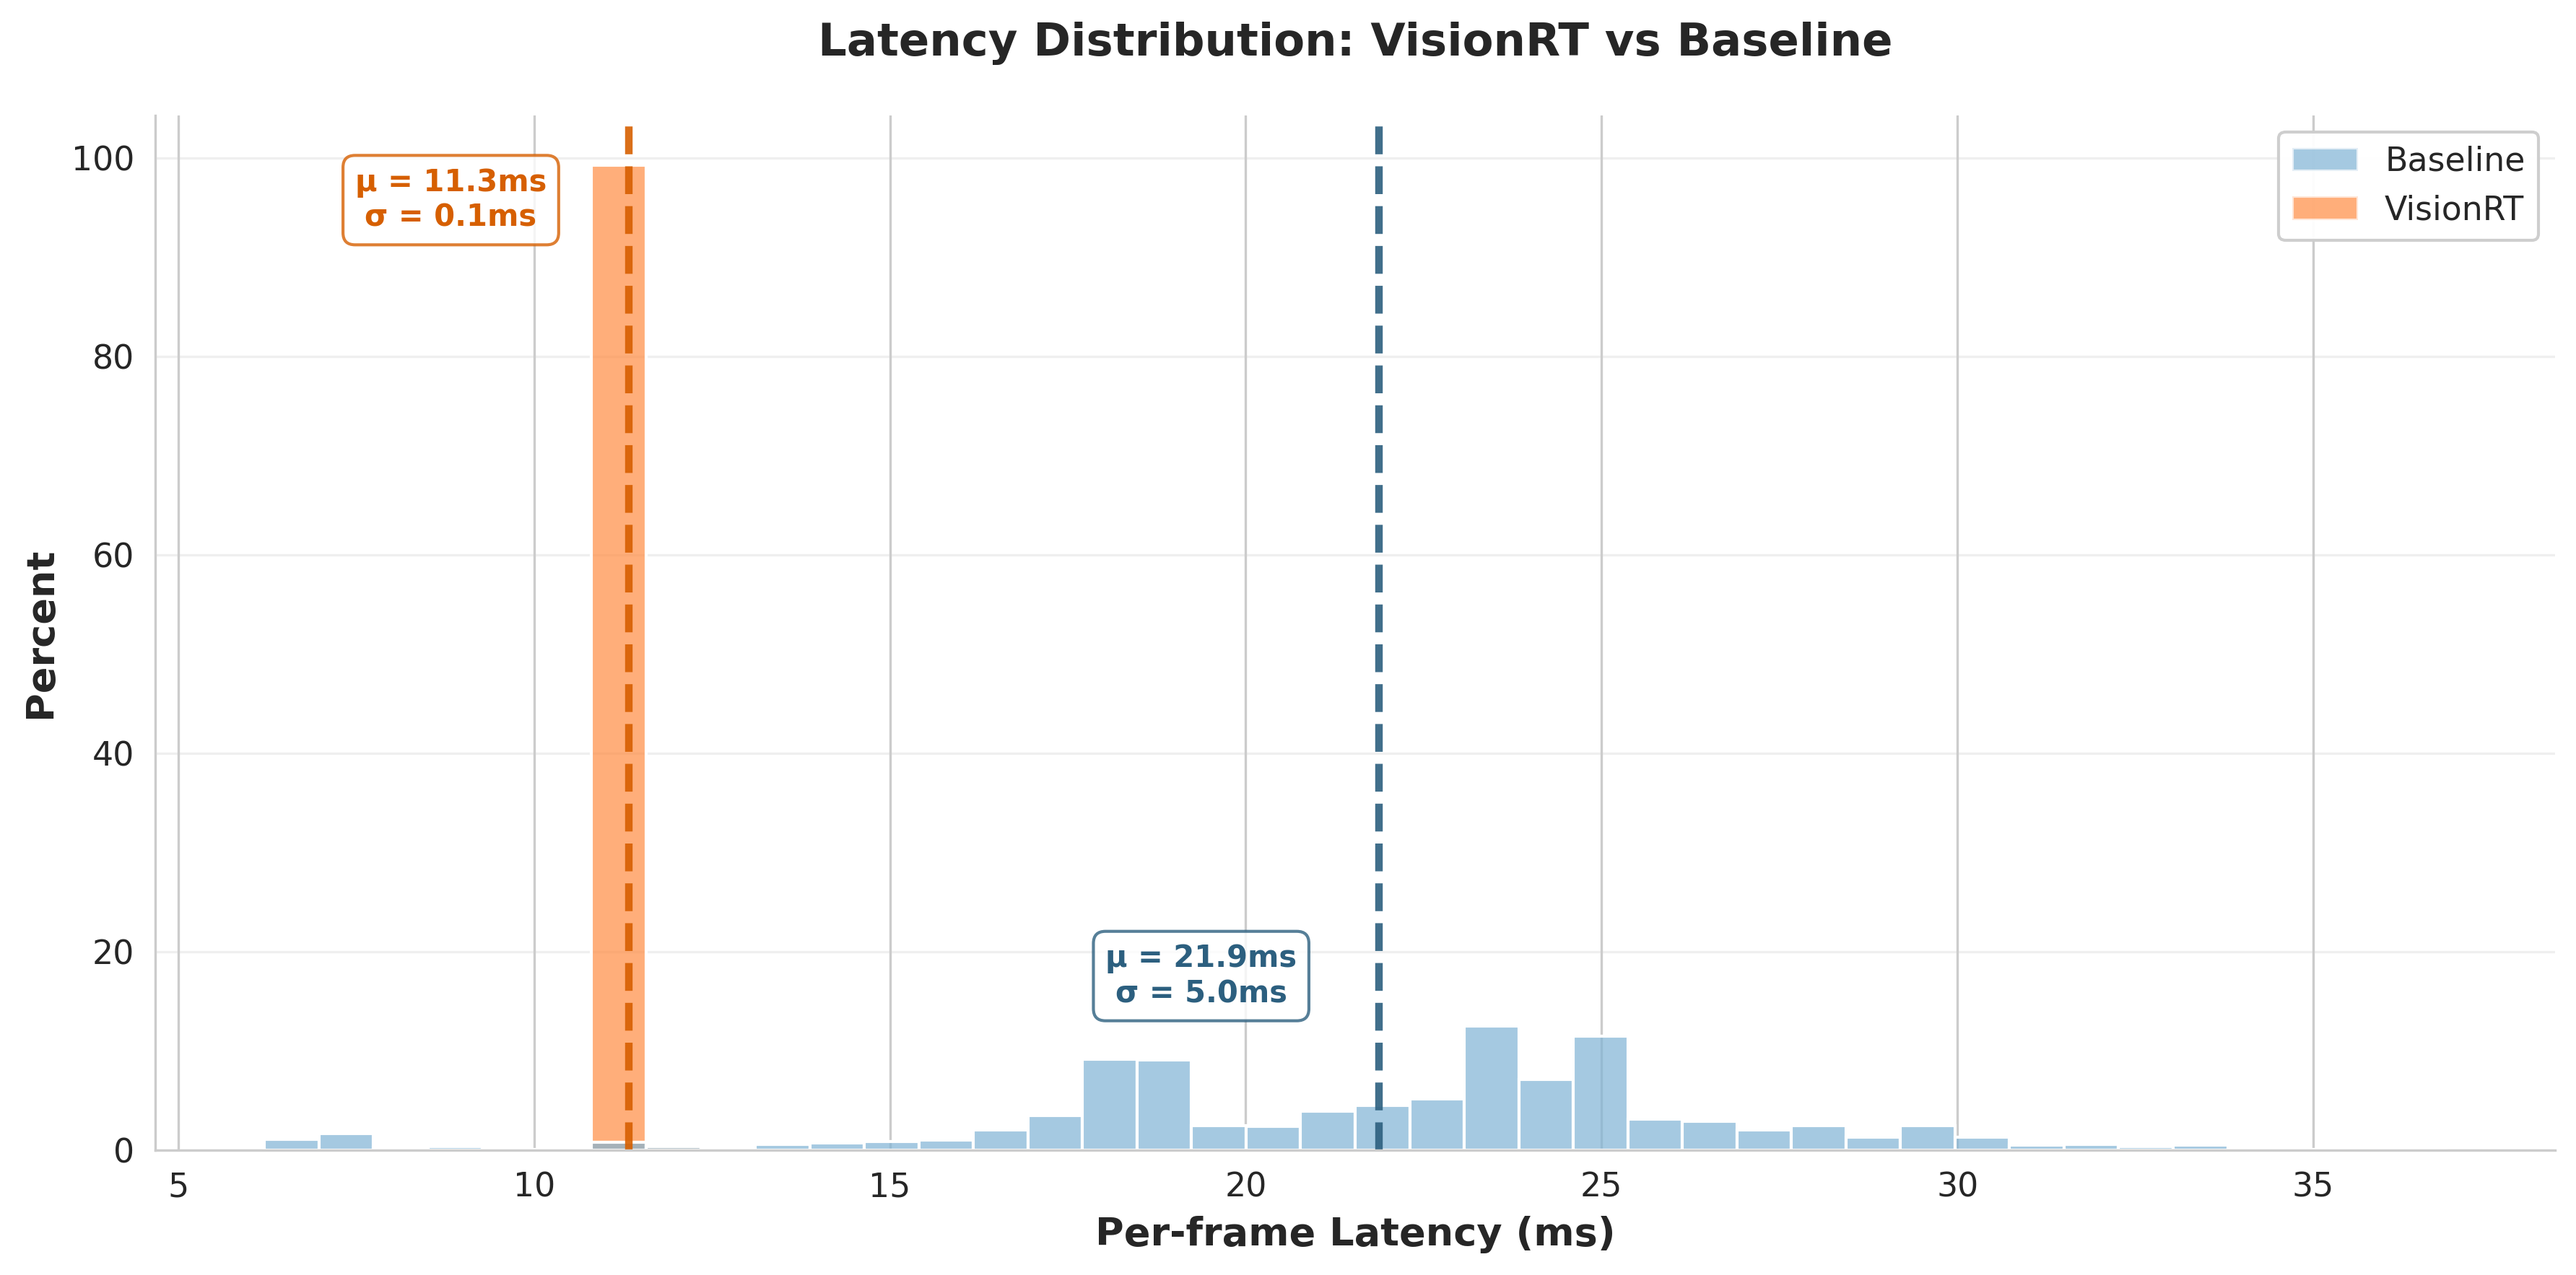
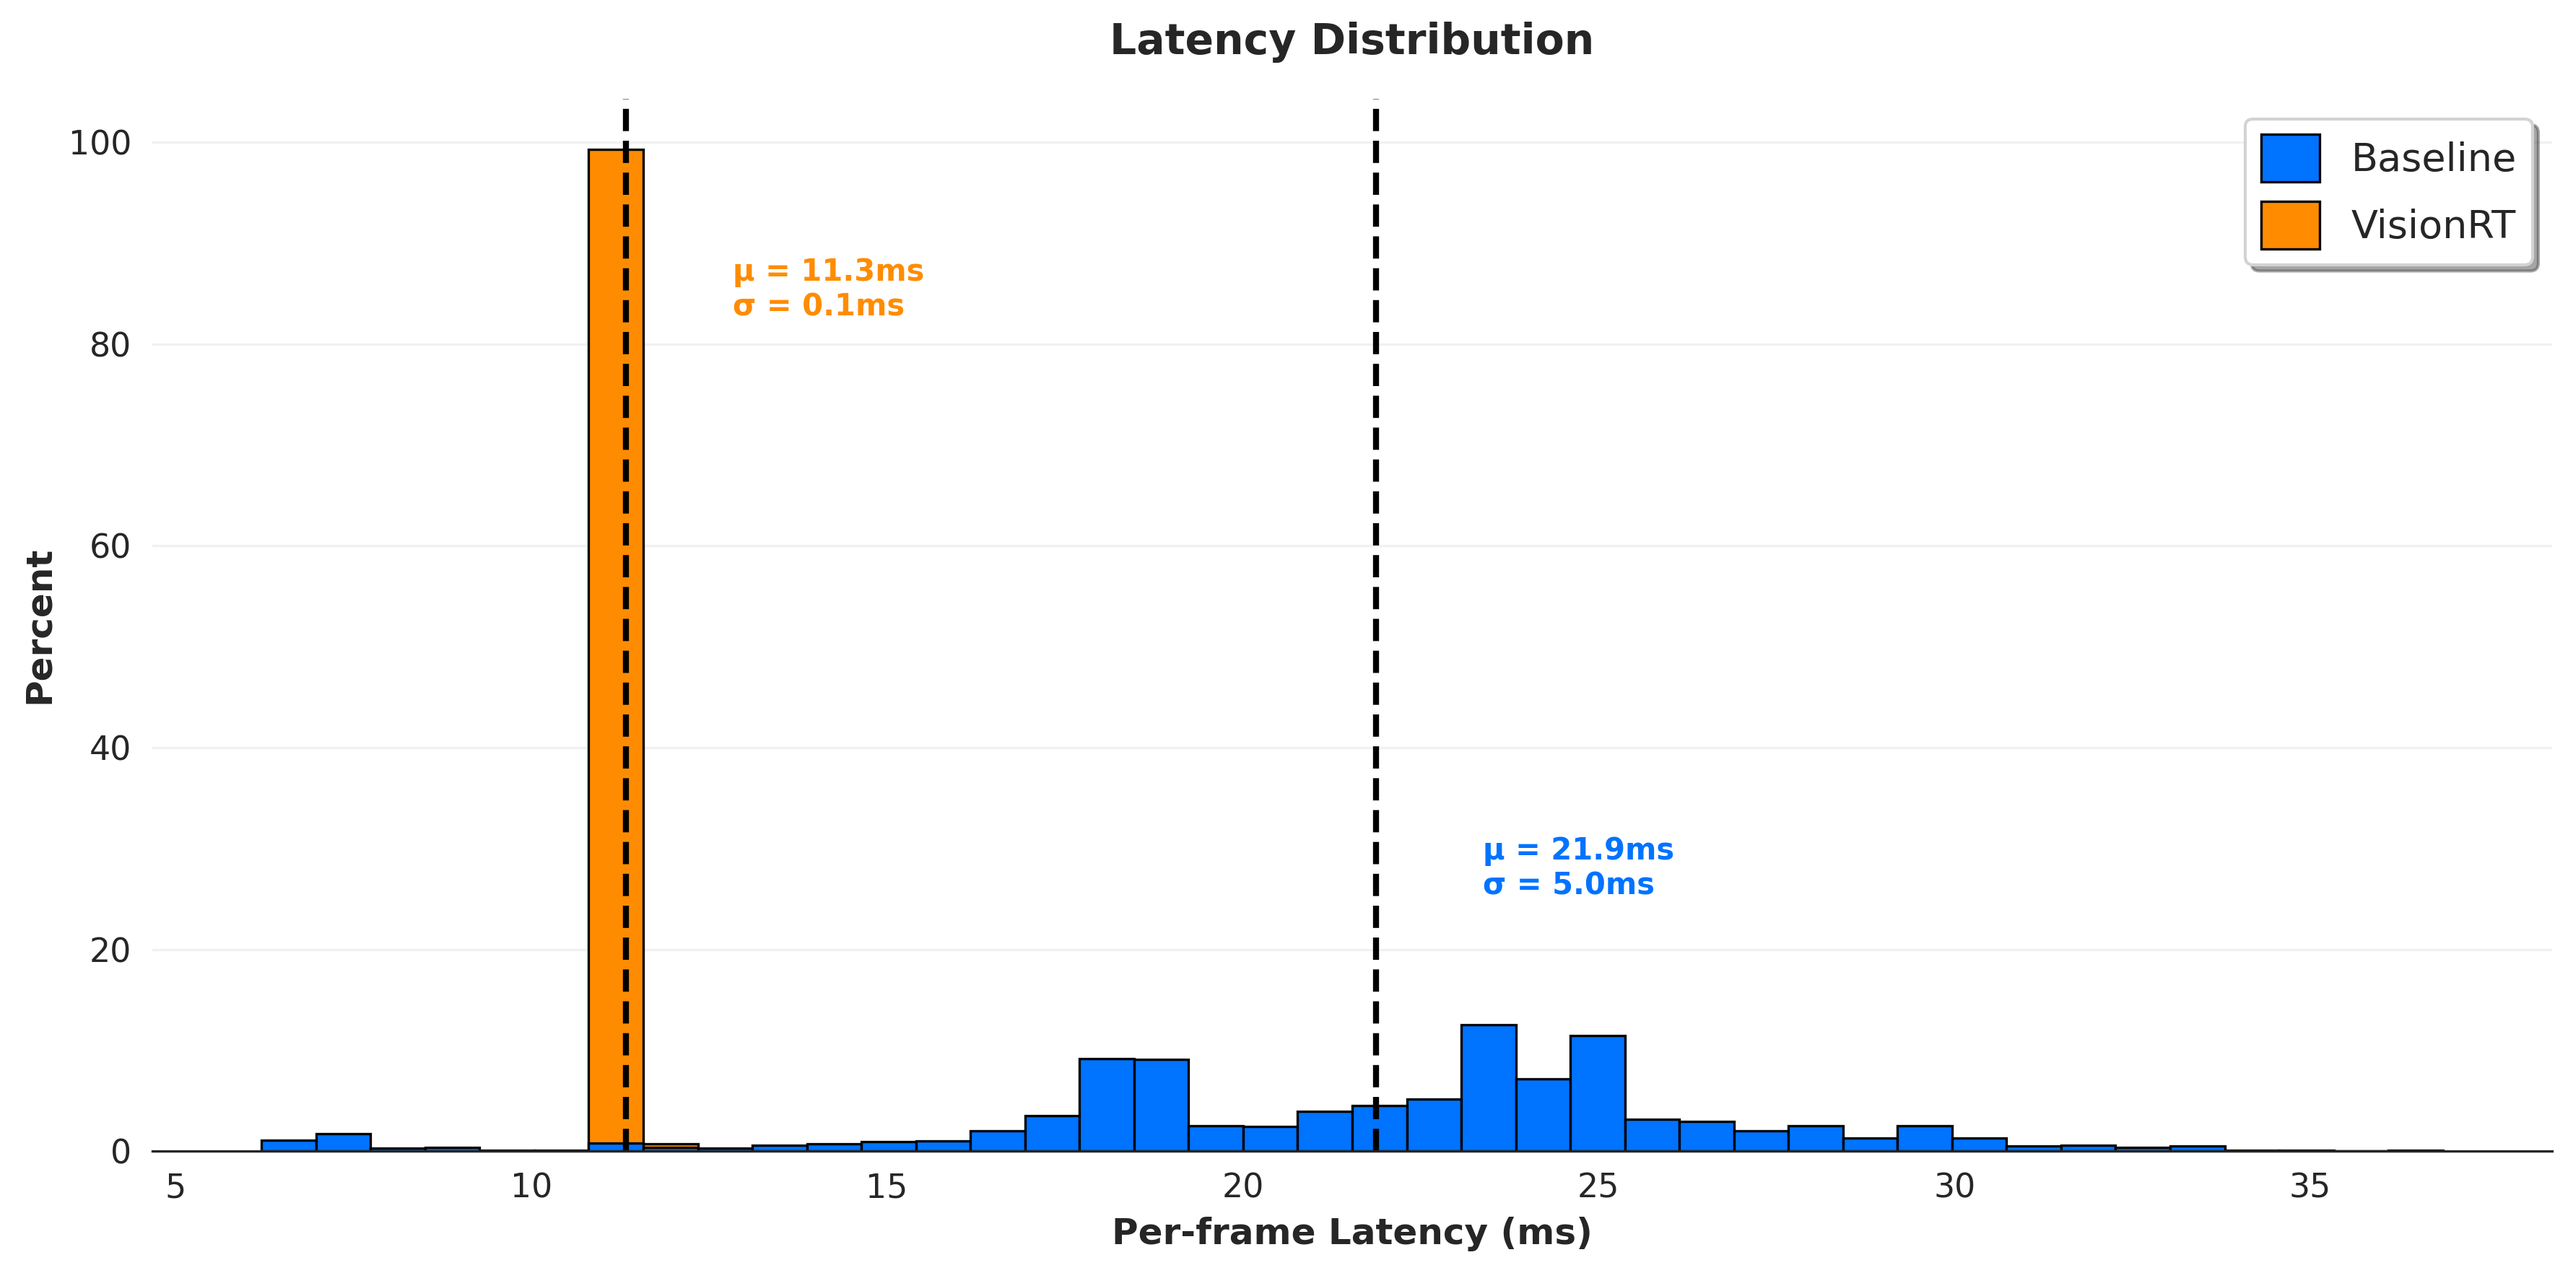
update image to be more bold

diff --git a/examples/visualize.py b/examples/visualize.py
@@ -10,6 +10,11 @@ import numpy as np
 import seaborn as sns
 import pandas as pd
 
+sns.set_style("white")
+
+BASELINE_COLOR = "#0073ff"
+VISIONRT_COLOR = "#FF8C00"
+
 
 def _clip_outliers(data_ms: np.ndarray, sigma: float = 3.0) -> np.ndarray:
     if data_ms.size == 0:
@@ -123,7 +128,6 @@ def main(iters: int = 100) -> None:
     labels = (["Baseline"] * len(baseline_ms)) + (["VisionRT"] * len(visionrt_ms))
     latencies = np.concatenate([baseline_ms, visionrt_ms])
 
-    sns.set_style("whitegrid")
     fig, ax = plt.subplots(figsize=(12, 6))
 
     df = pd.DataFrame({"Latency": latencies, "System": labels})
@@ -134,10 +138,12 @@ def main(iters: int = 100) -> None:
         hue="System",
         kde=False,
         bins=40,
-        alpha=0.7,
+        alpha=1.0,
         common_norm=False,
-        palette={"Baseline": "#7fb3d5", "VisionRT": "#ff8c42"},
+        palette={"Baseline": BASELINE_COLOR, "VisionRT": VISIONRT_COLOR},
         stat="percent",
+        edgecolor="black",
+        linewidth=0.8,
         ax=ax,
     )
 
@@ -147,56 +153,62 @@ def main(iters: int = 100) -> None:
     visionrt_mean = visionrt_ms.mean()
     visionrt_std = visionrt_ms.std()
 
-    ax.axvline(baseline_mean, color="#2c5f7f", linestyle="--", linewidth=2.5, alpha=0.9)
-    ax.axvline(visionrt_mean, color="#d65f00", linestyle="--", linewidth=2.5, alpha=0.9)
+    ax.axvline(baseline_mean, color="black", linestyle="--", linewidth=2)
+    ax.axvline(visionrt_mean, color="black", linestyle="--", linewidth=2)
 
     ax.text(
-        baseline_mean - 2.5,
-        ax.get_ylim()[1] * 0.20,
+        baseline_mean + 1.5,
+        ax.get_ylim()[1] * 0.30,
         f"µ = {baseline_mean:.1f}ms\nσ = {baseline_std:.1f}ms",
-        ha="center",
+        ha="left",
         va="top",
         fontsize=10,
         fontweight="bold",
-        color="#2c5f7f",
-        bbox=dict(
-            boxstyle="round,pad=0.4", facecolor="white", edgecolor="#2c5f7f", alpha=0.8
-        ),
+        color=BASELINE_COLOR,
     )
     ax.text(
-        visionrt_mean - 2.5,
-        ax.get_ylim()[1] * 0.95,
+        visionrt_mean + 1.5,
+        ax.get_ylim()[1] * 0.85,
         f"µ = {visionrt_mean:.1f}ms\nσ = {visionrt_std:.1f}ms",
-        ha="center",
+        ha="left",
         va="top",
         fontsize=10,
         fontweight="bold",
-        color="#d65f00",
-        bbox=dict(
-            boxstyle="round,pad=0.4", facecolor="white", edgecolor="#d65f00", alpha=0.8
-        ),
+        color=VISIONRT_COLOR,
     )
 
-    ax.set_xlabel("Per-frame Latency (ms)", fontsize=13, fontweight="bold")
-    ax.set_ylabel("Percent", fontsize=13, fontweight="bold")
+    ax.set_xlabel("Per-frame Latency (ms)", fontsize=12, fontweight="bold")
+    ax.set_ylabel("Percent", fontsize=12, fontweight="bold")
     ax.set_title(
-        "Latency Distribution: VisionRT vs Baseline",
-        fontsize=15,
+        "Latency Distribution",
+        fontsize=14,
         fontweight="bold",
-        pad=20,
+        pad=15,
     )
 
     legend_elements = [
-        Patch(facecolor="#7fb3d5", alpha=0.7, label="Baseline"),
-        Patch(facecolor="#ff8c42", alpha=0.7, label="VisionRT"),
+        Patch(facecolor=BASELINE_COLOR, edgecolor="black", linewidth=0.8, label="Baseline"),
+        Patch(facecolor=VISIONRT_COLOR, edgecolor="black", linewidth=0.8, label="VisionRT"),
     ]
-    ax.legend(handles=legend_elements, fontsize=11, loc="upper right", framealpha=0.95)
+    ax.legend(
+        handles=legend_elements,
+        fontsize=13,
+        loc="upper right",
+        frameon=True,
+        fancybox=True,
+        shadow=True,
+        facecolor="white",
+        edgecolor="lightgray",
+        handlelength=1.5,
+        handleheight=1.5,
+    )
 
-    ax.grid(axis="y", alpha=0.3)
+    ax.grid(axis="y", alpha=0.3, linestyle="-", color="lightgray")
+    ax.set_axisbelow(True)
     ax.tick_params(axis="both", labelsize=11)
 
     plt.tight_layout()
-    sns.despine()
+    sns.despine(left=True)
 
     fig.savefig("images/latency_histogram.png", dpi=300, bbox_inches="tight")
 
